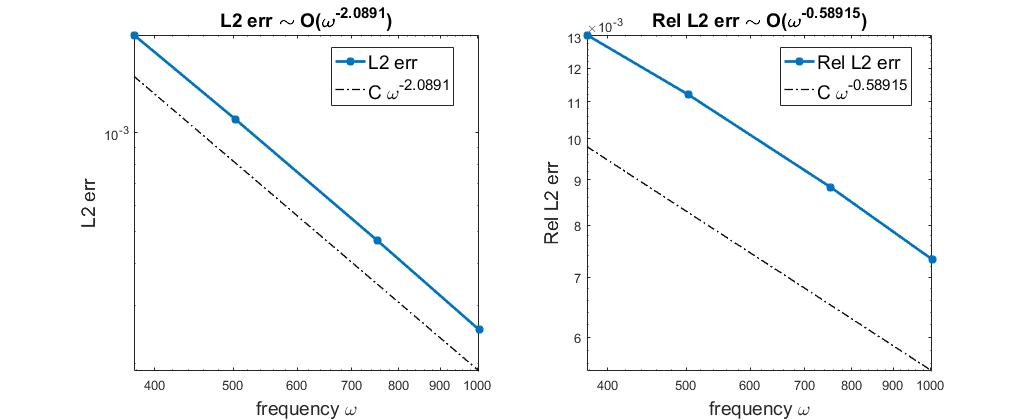
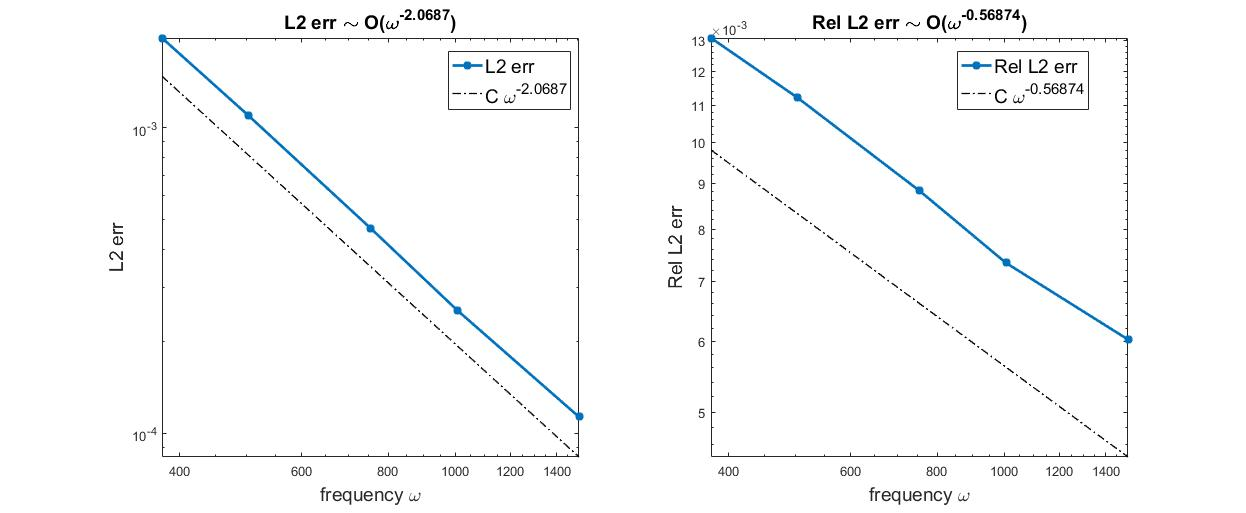
update test 5

diff --git a/Singularity_Treatment/test5_Lippmann_Schwinger.m b/Singularity_Treatment/test5_Lippmann_Schwinger.m
@@ -30,7 +30,7 @@ epsilon = 50/(80*pi);               % cut-off parameter
 
 
 NPW = 4;                   % number of points per wavelength
-test_num = 5;              % we test test_num examples
+test_num = 2;              % we test test_num examples
 
 % frequency
 high_omega = [120 160 240 320 480 640]*pi;
@@ -206,44 +206,52 @@ for ti = 1: test_num
     clear lnode lelem mnode melem cnode celem cnumray cnumray_angle;
     clear A b x y rr cf u_std ub uh uh1 ux uy freeNode isBdNode;
     
-    switch round(omega/(2*pi))
-        case 60
-            load('../Solutions_Lippmann_Schwinger/point_source_k_60_2pi.mat')
-        case 80
-            load('../Solutions_Lippmann_Schwinger/point_source_k_80_2pi.mat')
-        case 120
-            load('../Solutions_Lippmann_Schwinger/point_source_k_120_2pi.mat')
-        case 160
-            load('../Solutions_Lippmann_Schwinger/point_source_k_160_2pi.mat')
-        case 240
-            load('../Solutions_Lippmann_Schwinger/point_source_k_240_2pi.mat')
-    end
-
-    rh = 1/4000;
-    [rnode,~] = squaremesh([-a,a,-a,a],rh); rn = round(sqrt(size(rnode,1)));
-    uh = RayFEM_solution(node,elem,omega,speed,v,ray,rnode);
     
-    % Reference solution 
-    x = rnode(:,1); y = rnode(:,2);
-    rr = sqrt((x-xs).^2 + (y-ys).^2);
+    %% Compute errors
+%     fprintf([ '-'*ones(1,80) '\n']);
+%     fprintf('Compute errors\n');
+%     tic;
+%     switch round(omega/(2*pi))
+%         case 60
+%             load('../Solutions_Lippmann_Schwinger/point_source_k_60_2pi.mat')
+%         case 80
+%             load('../Solutions_Lippmann_Schwinger/point_source_k_80_2pi.mat')
+%         case 120
+%             load('../Solutions_Lippmann_Schwinger/point_source_k_120_2pi.mat')
+%         case 160
+%             load('../Solutions_Lippmann_Schwinger/point_source_k_160_2pi.mat')
+%         case 240
+%             load('../Solutions_Lippmann_Schwinger/point_source_k_240_2pi.mat')
+%     end
+% 
+%     rh = 1/4000;
+%     [rnode,~] = squaremesh([-a,a,-a,a],rh); rn = round(sqrt(size(rnode,1)));
+%     uh = RayFEM_solution(node,elem,omega,speed,v,ray,rnode);
+%     
+%     % Reference solution 
+%     x = rnode(:,1); y = rnode(:,2);
+%     rr = sqrt((x-xs).^2 + (y-ys).^2);
+%     
+%     cf = cutoff(epsilon,2*epsilon,rnode,xs,ys);
+%     ur = (1-cf).*u;
+%     ur(rr<epsilon) = 0;
+%    
+%     % Errors
+%     du = uh - ur;
+%     idx = find( ~( (x<=max(x)-wpml).*(x>= min(x)+wpml)...
+%         .*(y<= max(y)-wpml).*(y>= min(y)+wpml) ) ); % index on PML
+%     du(idx) = 0;  ur(idx) = 0;
+%     
+%     max_err(ti) = norm(du,inf);
+%     rel_max_err(ti) = norm(du,inf)/norm(ur,inf);
+%     l2_err(ti) = norm(du)*h;
+%     rel_l2_err(ti) = norm(du)/norm(ur);
+%     toc;
+%     
+%     clear node elem rnode x y rr cf idx u;
     
-    cf = cutoff(epsilon,2*epsilon,rnode,xs,ys);
-    ur = (1-cf).*u;
-    ur(rr<epsilon) = 0;
-   
-    % Errors
-    du = uh - ur;
-    idx = find( ~( (x<=max(x)-wpml).*(x>= min(x)+wpml)...
-        .*(y<= max(y)-wpml).*(y>= min(y)+wpml) ) ); % index on PML
-    du(idx) = 0;  ur(idx) = 0;
     
-    max_err(ti) = norm(du,inf);
-    rel_max_err(ti) = norm(du,inf)/norm(ur,inf);
-    l2_err(ti) = norm(du)*h;
-    rel_l2_err(ti) = norm(du)/norm(ur);
-    
-    clear node elem rnode x y rr cf idx v u ray;
-    
+    %% Plots
 %     sh = 1/400;
 %     [snode,selem] = squaremesh([-a,a,-a,a],sh); 
 %     sn = round(sqrt(size(snode,1))); idx = 1:sn; idx = 10*(idx-1) + 1;
@@ -316,4 +324,12 @@ fprintf( '&  %1.2d  ',rel_l2_err);
 fprintf( ['\n' '-'*ones(1,80) '\n']);
 
 
-
+% --------------------------------------------------------------------------------
+% Max error:               &  5.35e-03  &  2.81e-03  &  3.09e-03  &  2.31e-03  &  1.83e-03  &  00  
+% 
+% Relative max error:      &  2.86e-01  &  1.61e-01  &  2.24e-01  &  1.99e-01  &  1.98e-01  &  00  
+% 
+% L2 error:                &  1.96e-03  &  1.09e-03  &  4.69e-04  &  2.53e-04  &  1.13e-04  &  00  
+% 
+% Relative L2 error:       &  1.31e-02  &  1.12e-02  &  8.83e-03  &  7.33e-03  &  6.02e-03  &  00  
+% --------------------------------------------------------------------------------
